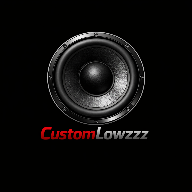
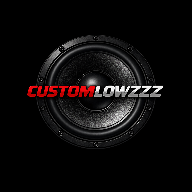
Add files via upload

Changed region(s): [[0.125, 0.1562, 0.8438, 0.7812]]

diff --git a/style.css b/style.css
@@ -1,49 +1,63 @@
+@import url('https://fonts.googleapis.com/css2?family=Orbitron:wght@400;700&display=swap');
+
 :root {
+    --font: 'Orbitron', sans-serif;
+
     --font-size-default: 32px;
-    --font-size-lijstbutton: 24px;
+    --font-size-lijstbutton: 20px;
 
     --color: #fff;
     --input-color: #fff;
     --button-color: #fff;
     --placeholder-color: #fff;
 
-    --background-color: #262626;
-    --background-input-color: #565656;
-    --background-button-color: #565656;
+    --background-input-color: #2e2e2e;
+    --background-button-color: #2e2e2e;
     --background-placeholder-color: #262626;
 
-    --border: 1px solid #999;
-    --border-input: 1px solid #999;
-    --border-button: 1px solid #999;
+    --border-input: 1px solid #444;
+    --border-button: 1px solid #444;
     --border-placeholder: 1px solid #999;
 
-    --border-radius: 5px;
-    --border-input-radius: 5px;
-    --border-button-radius: 5px;
-    --border-placeholder-radius: 5px;
+    --border-input-radius: 6px;
+    --border-button-radius: 6px;
+    --border-placeholder-radius: 6px;
 
     --widthbuttons: 85%;
 }
 
 *,
 *::before,
-*::after {
-    box-sizing: border-box;
-}
+*::after { box-sizing: border-box; }
 
 body {
-    background-color: var(--background-color);        
+    font-family: var(--font);
+    letter-spacing: 1px;
+    background: radial-gradient(circle at center, #1a1a1a 0%, #000 100%);
 }
 
-
-
-h1,
-h2 {
+h1, h2 {
     display: flex;
     justify-content: center;
     font-size: var(--font-size-default);
     color: var(--color);
 }
+
+#logo {
+    margin-top: 25px;
+    margin-bottom: 20px;
+    opacity: 0.95;
+}
+
+
+img {
+    max-width: var(--widthbuttons);
+    display: flex;
+    margin: 0 auto;
+    padding: 25px 0;
+}
+
+#lijst div { margin-bottom: 10px; }
 
 #lijst div a {
     text-decoration: none;
@@ -55,14 +69,23 @@ h2 {
 }
 
 #lijst div button {
+    font-family: 'Orbitron', sans-serif;
     font-size: var(--font-size-lijstbutton);
-    padding: 20px 0;
-    color: var(--button-color);
-    border-radius: 10px;
-    border: var(--border-button);
-    border-radius: var(--border-button-radius);
-    background-color: var(--background-button-color);
+    padding: 22px 0;
+    color: #fff;
+
+    background: linear-gradient(180deg, #2a2a2a 0%, #111 100%);
+    border: 1px solid #3a3a3a;
+    border-radius: 6px;
+
+    box-shadow:
+        inset 0 1px 2px rgba(255,255,255,0.05),
+        0 4px 10px rgba(0,0,0,0.7);
+
+    transition: all .15s ease;
 }
+
+
 
 #content {
     display: flex;
@@ -74,29 +97,36 @@ h2 {
 #content input,
 #content select,
 #content button {
-    width: 100%;           
-    padding: 50px;         
+    width: 100%;
+    padding: 50px;
     font-size: var(--font-size-default);
-    border: 1px solid #999;
-    border-radius: 4px;
     margin: 5px 0;
-    background-color: #fff;
+    background-color: #2e2e2e;
+    border: 1px solid #444;
+    border-radius: 4px;
+    box-shadow: inset 0 1px 3px rgba(0,0,0,0.6);
 }
 
 #content input,
 #content select {
-    background-color: var(--background-input-color);
-    border: var(--border-input);
-    border-radius: var(--border-input-radius);
     color: var(--input-color);
+    border-radius: var(--border-input-radius);
 }
 
-#content button,
-#backBtn {
+#content button {
     background-color: var(--background-button-color);
     border: var(--border-button);
     border-radius: var(--border-button-radius);
     color: var(--button-color);
+}
+
+#content input:focus,
+#content select:focus,
+#content button:active {
+    background-color: var(--background-input-color);
+    color: var(--input-color);
+    border-color: #ff0000;
+    box-shadow: 0 0 10px rgba(255,0,0,0.25);
 }
 
 #content ::placeholder {
@@ -104,63 +134,50 @@ h2 {
     font-size: var(--font-size-default);
 }
 
-
-
 #resultaat {
     width: 100%;
-    border: 1px solid #999;
     border-radius: 4px;
-    padding: 20px;
     margin: 15px 0;
     font-size: var(--font-size-default);
-
     opacity: 0;
     border-width: 0;
     padding: 0;
-
-    transition: all 0.3s ease;
+    transition: .3s;
     color: var(--color);
 }
 
-
 #header {
     display: flex;
-    align-items: center;     
-    justify-content: space-between; 
+    align-items: center;
+    justify-content: space-between;
     position: relative;
     margin: 0 auto;
-    padding: 115px 0 0 0;
-    font-size: 20px;
     max-width: var(--widthbuttons);
+    padding: 60px 0 20px;
+    border-bottom: 2px solid #444;
 }
 
-/* Back knop */
-#back-container {
-    flex: 0 0 auto;           
-}
-
-/* Titel */
 #titel {
-    position: absolute;       
+    position: absolute;
     left: 50%;
     transform: translateX(-50%);
 }
 
-/* Button styling */
-#back-container button {
-    font-size: var(--font-size-default);
-    padding: 20px 20px;
-    cursor: pointer;
-    border: 1px solid #999;
-    border-radius: 4px;
+#berekenBtn{
+    font: var(--font);
 }
 
-
-
-
-
-
-
+#back-container button {
+    font-family: var(--font);
+    font-size: var(--font-size-default);
+    padding: 20px;
+    cursor: pointer;
+    background-color: #2e2e2e;
+    border: 1px solid #444;
+    border-radius: 4px;
+    color: #fff;
+    box-shadow: inset 0 1px 3px rgba(0,0,0,0.6);
+}
 
 .field {
     position: relative;
@@ -173,8 +190,7 @@ h2 {
     font-size: var(--font-size-default);
     color: var(--placeholder-color);
     pointer-events: none;
-    transition: 0.25s ease;
-
+    transition: .25s;
     background-color: var(--background-placeholder-color);
     border: var(--border-placeholder);
     border-radius: var(--border-placeholder-radius);
@@ -183,29 +199,11 @@ h2 {
 
 .field select {
     width: 100%;
-    padding: 50px 20px 20px 20px;
+    padding: 50px 20px 20px;
     font-size: var(--font-size-default);
     border: var(--border-input);
     border-radius: var(--border-input-radius);
     background: var(--background-input-color);
-}
-
-
-
-
-
-
-
-
-
-
-
-#content input:focus,
-#content input:valid,
-#content input:not(:placeholder-shown),
-#content select:focus {
-    background-color: var(--background-input-color);
-    color: var(--input-color);
 }
 
 #content input:-webkit-autofill {

diff --git a/js/calculators/calc7_poortvelocity.js b/js/calculators/calc7_poortvelocity.js
@@ -1,6 +1,6 @@
 export default {
   id: 7,
-  titel: "Port Flow Check",
+  titel: "Port Airflow / Chuffing Check",
   inputs: [
     { id: "type", label: "Poort type", type: "select", options: ["Ronde poort", "Rechthoekige poort"] },
     { id: "power", label: "Vermogen (W RMS)" }

diff --git a/js/calculators/calc4_kabeldikte.js b/js/calculators/calc4_kabeldikte.js
@@ -1,6 +1,6 @@
 export default {
   id: 4,
-  titel: "Cable Gauge (mm²)",
+  titel: "Power Cable Gauge (mm²)",
   inputs: [
     { id: "watt", label: "Vermogen (W)" },
     { id: "volt", label: "Voltage", type: "select", options: [12, 13.8, 14.4], default: 12 },

diff --git a/js/calculators/calc2_ampere.js b/js/calculators/calc2_ampere.js
@@ -1,6 +1,6 @@
 export default {
   id: 2,
-  titel: "Power draw (Ampere)",
+  titel: "Power draw (A)",
   inputs: [
     { id: "watt", label: "Wattage" },
     { id: "volt", label: "Voltage", type: "select", options: [12, 14, 14.4] }

diff --git a/index.html b/index.html
@@ -64,7 +64,8 @@
   </head>
 
   <body>
-    <h2>CUSTOMLOWZZZ</h2>
+    <img src="./icons/homescreen-text.png" alt="logo CustomLowzzz" id="logo" />
+
     <div id="lijst"></div>
   </body>
 </html>

diff --git a/js/calculators/calc3_gain.js b/js/calculators/calc3_gain.js
@@ -1,6 +1,6 @@
 export default {
   id: 3,
-  titel: "Gain Setting",
+  titel: "Amplifier Gain Setup (Vrms)",
   inputs: [
     { id: "watt", label: "Wattage" },
     { id: "ohm", label: "Ohm" }

diff --git a/js/calculators/calc5_zekering.js b/js/calculators/calc5_zekering.js
@@ -1,6 +1,6 @@
 export default {
   id: 5,
-  titel: "Fuse Rating",
+  titel: "Fuse Rating (A)",
   inputs: [
     { id: "watt", label: "Wattage van versterker" },
     { 

diff --git a/js/calculators/calc6_poort.js b/js/calculators/calc6_poort.js
@@ -1,6 +1,6 @@
 export default {
   id: 6,
-  titel: "Port Tuning",
+  titel: "Port Tuning (Hz) / Length (cm)",
   inputs: [
     { 
       id: "mode", 
